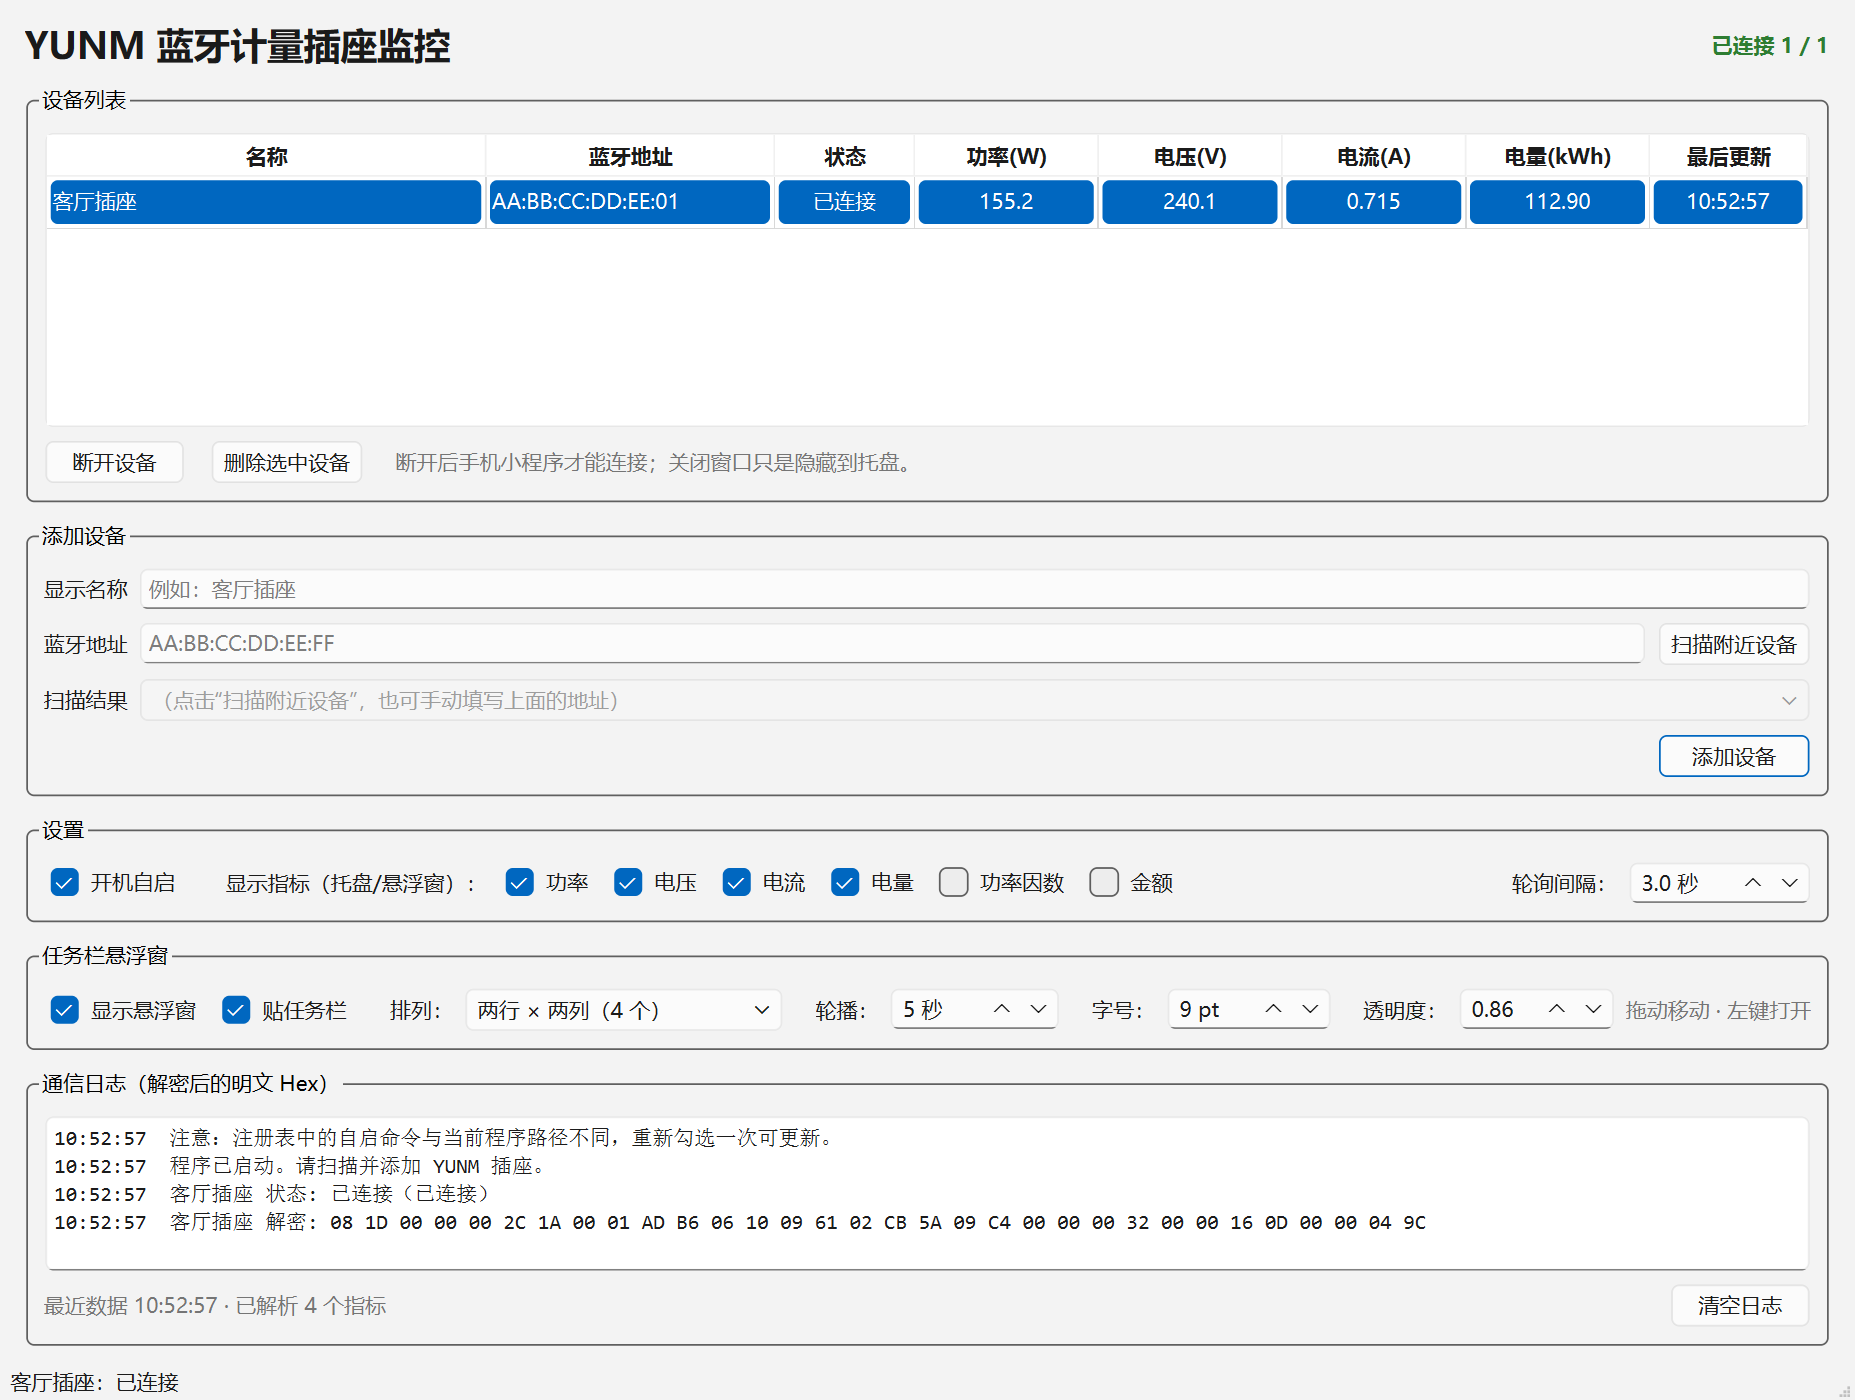
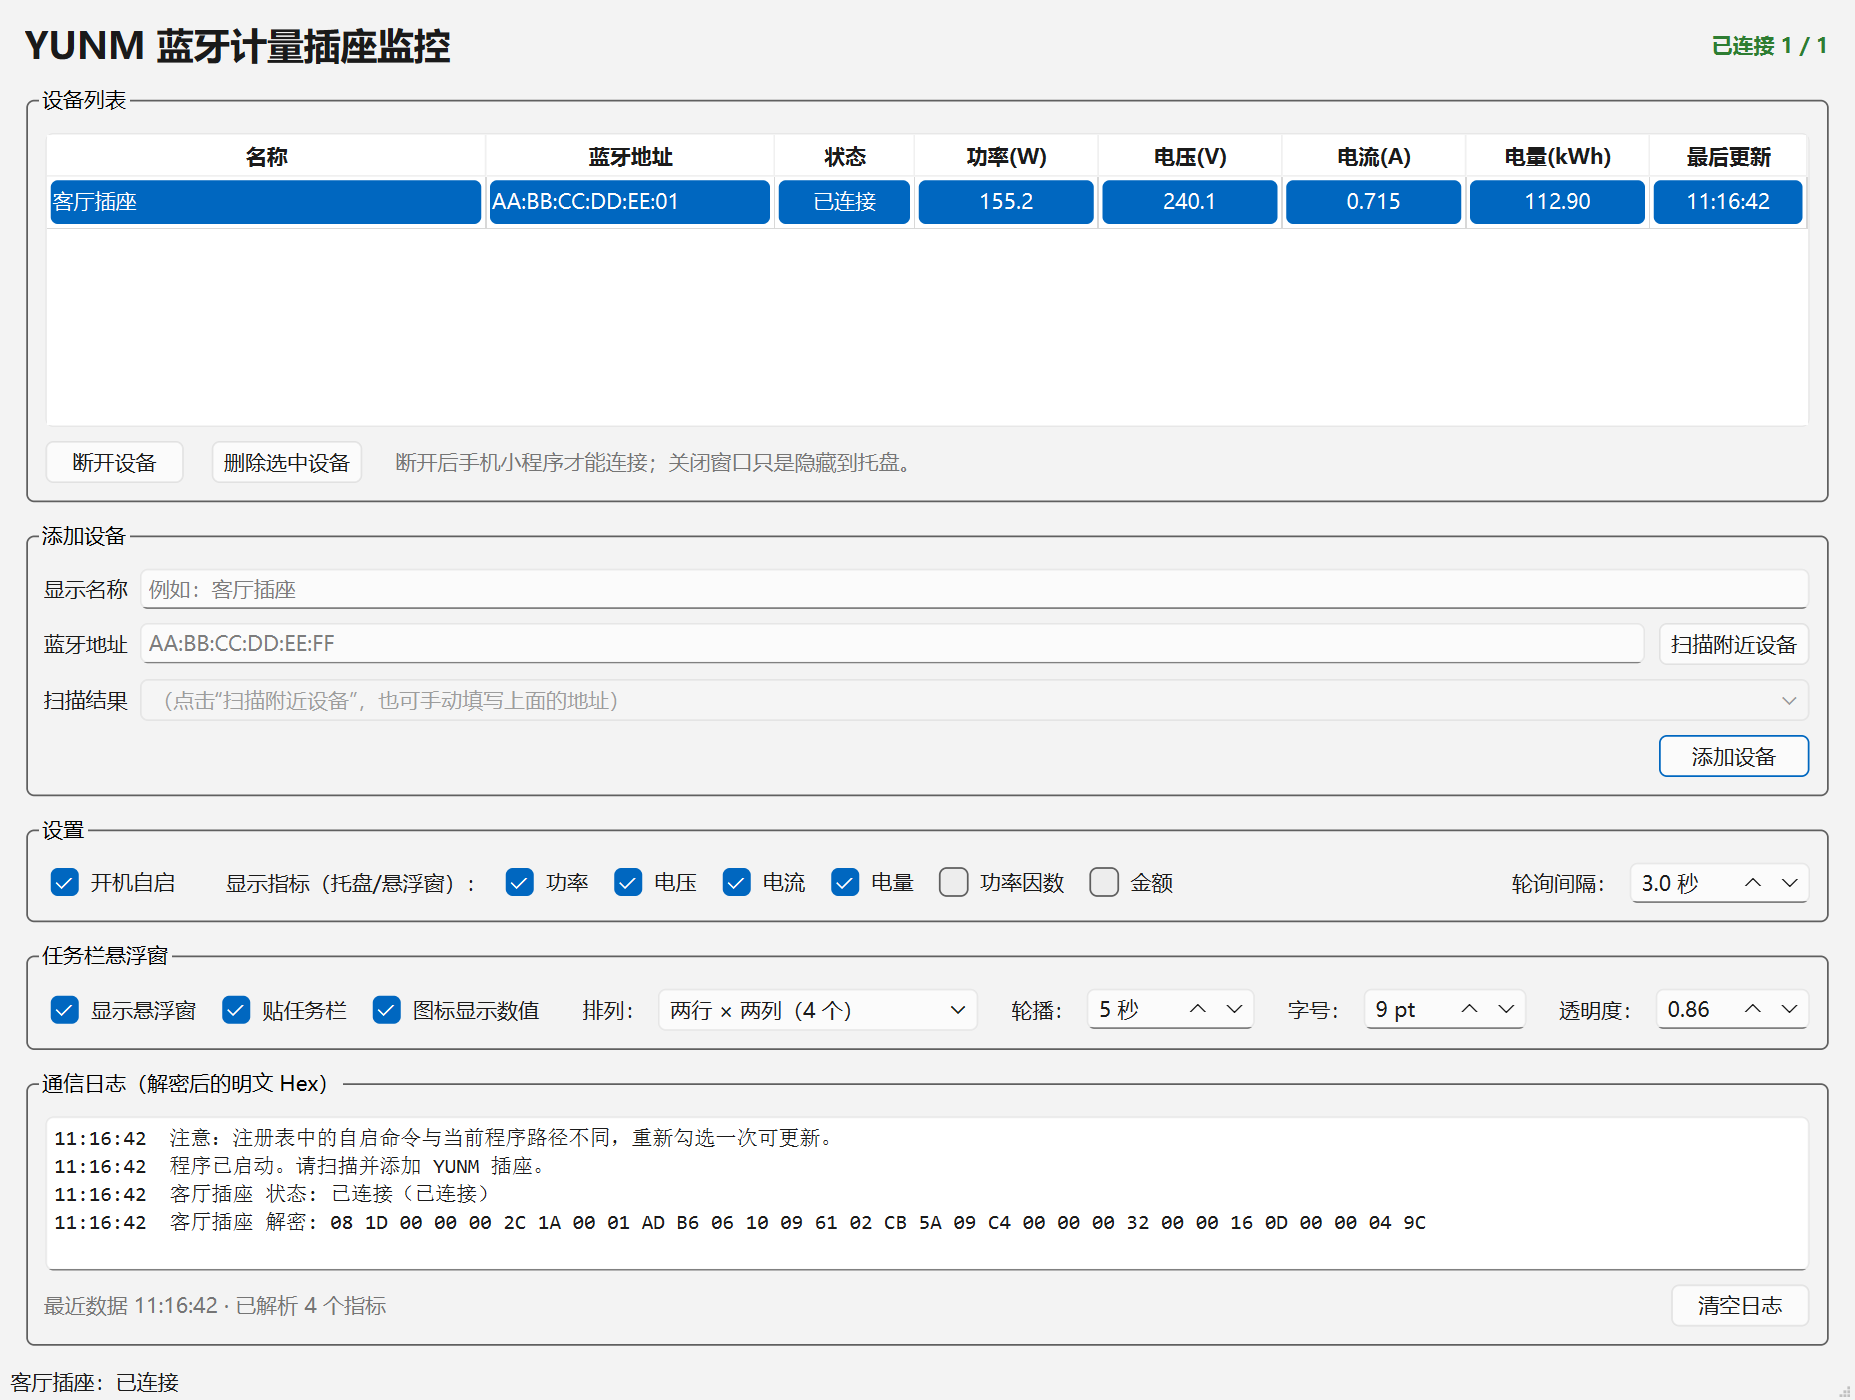
feat: 托盘和任务栏图标显示实时数值

diff --git a/main.py b/main.py
@@ -23,15 +23,16 @@ from __future__ import annotations
 import argparse
 import getpass
 import hashlib
+import io
 import logging
 import os
 import sys
 import threading
 from typing import Any
 
-from PIL import Image, ImageDraw
-from PySide6.QtCore import QObject, Signal, Slot
-from PySide6.QtGui import QIcon
+from PIL import Image, ImageDraw, ImageFont
+from PySide6.QtCore import QObject, QTimer, Qt, Signal, Slot
+from PySide6.QtGui import QIcon, QImage, QPixmap
 from PySide6.QtNetwork import QLocalServer, QLocalSocket
 from PySide6.QtWidgets import QApplication, QMessageBox
 import pystray
@@ -108,6 +109,99 @@ def make_tray_image(color: tuple[int, int, int, int], size: int = 64) -> Image.I
         fill=(255, 255, 255, 255),
     )
     return image
+
+
+def _load_icon_font(size: int) -> ImageFont.FreeTypeFont | ImageFont.ImageFont:
+    """加载 Windows 粗体字体；失败时退回 Pillow 默认字体。"""
+    for path in (
+        r"C:\Windows\Fonts\arialbd.ttf",
+        r"C:\Windows\Fonts\msyhbd.ttc",
+        r"C:\Windows\Fonts\seguisb.ttf",
+    ):
+        try:
+            return ImageFont.truetype(path, size)
+        except OSError:
+            continue
+    return ImageFont.load_default()
+
+
+def make_value_image(
+    value_text: str,
+    unit: str,
+    color: tuple[int, int, int, int],
+    size: int = 64,
+) -> Image.Image:
+    """画一个带数值的托盘/任务栏图标。
+
+    Windows 托盘最终显示为 16~32px，因此图标只放一个主数值和单位；
+    多个指标由 TrayController 定时轮换。
+    """
+    image = Image.new("RGBA", (size, size), (0, 0, 0, 0))
+    draw = ImageDraw.Draw(image)
+    draw.rounded_rectangle(
+        (2, 2, size - 3, size - 3),
+        radius=max(8, size // 5),
+        fill=color,
+        outline=(255, 255, 255, 245),
+        width=max(2, size // 22),
+    )
+
+    length = len(value_text)
+    value_size = 34 if length <= 3 else 28 if length == 4 else 22
+    value_font = _load_icon_font(value_size)
+    unit_font = _load_icon_font(12)
+
+    value_box = draw.textbbox((0, 0), value_text, font=value_font)
+    value_width = value_box[2] - value_box[0]
+    value_height = value_box[3] - value_box[1]
+    value_y = (size - value_height) // 2 - (6 if unit else 0)
+    draw.text(
+        ((size - value_width) // 2, value_y),
+        value_text,
+        font=value_font,
+        fill=(255, 255, 255, 255),
+    )
+    if unit:
+        unit_box = draw.textbbox((0, 0), unit, font=unit_font)
+        unit_width = unit_box[2] - unit_box[0]
+        unit_height = unit_box[3] - unit_box[1]
+        draw.text(
+            ((size - unit_width) // 2, size - unit_height - 6),
+            unit,
+            font=unit_font,
+            fill=(255, 255, 255, 235),
+        )
+    return image
+
+
+def format_icon_value(key: str, value: float) -> tuple[str, str]:
+    """把指标压缩成适合小图标显示的短文本。"""
+    if key == "power":
+        return f"{value:.0f}", "W"
+    if key == "voltage":
+        return f"{value:.0f}", "V"
+    if key == "current":
+        return f"{value:.2f}", "A"
+    if key == "energy":
+        return f"{value:.1f}", "kWh"
+    if key == "power_factor":
+        return f"{value:.2f}", ""
+    if key == "cost":
+        return f"{value:.1f}", "¥"
+    meta = utils.METRIC_DEFS.get(key, {})
+    try:
+        return str(meta.get("fmt", "{:.1f}").format(float(value))), str(
+            meta.get("unit", "")
+        )
+    except (TypeError, ValueError):
+        return "--", ""
+
+
+def pil_to_qicon(image: Image.Image) -> QIcon:
+    buffer = io.BytesIO()
+    image.save(buffer, format="PNG")
+    qimage = QImage.fromData(buffer.getvalue())
+    return QIcon(QPixmap.fromImage(qimage))
 
 
 # ---------------------------------------------------------------------------
@@ -214,6 +308,8 @@ class TrayController(QObject):
     Qt 会自动排队到 GUI 主线程执行。所有 pystray 更新都在主线程完成。
     """
 
+    icon_changed = Signal(object)
+
     def __init__(self, window: MainWindow, config: dict[str, Any]) -> None:
         super().__init__()
         self.window = window
@@ -224,12 +320,16 @@ class TrayController(QObject):
         self._images = {
             key: make_tray_image(color) for key, color in TRAY_COLORS.items()
         }
-        self._last_icon_key = "idle"
+        self._last_icon_key: tuple[Any, ...] | None = None
         self._last_tooltip = utils.APP_DISPLAY_NAME
         self._hide_notified = False
         self._stopped = False
         self._start_failed = False
         self._ready = threading.Event()
+        self._icon_index = 0
+        self._icon_timer = QTimer(self)
+        self._icon_timer.setTimerType(Qt.TimerType.CoarseTimer)
+        self._icon_timer.timeout.connect(self._rotate_icon_metric)
 
         self.icon = pystray.Icon(
             "YUNM-Plug-Monitor",
@@ -237,6 +337,7 @@ class TrayController(QObject):
             title=self._last_tooltip,
             menu=self._build_menu(),
         )
+        self._sync_icon_timer()
 
     def _build_menu(self) -> pystray.Menu:
         return pystray.Menu(
@@ -349,7 +450,56 @@ class TrayController(QObject):
             # 手动断开后清除旧状态和旧读数，恢复时不要显示过期数据
             self.statuses.pop(address, None)
             self.latest.pop(address, None)
+        self._sync_icon_timer()
         self._refresh()
+
+    def _sync_icon_timer(self) -> None:
+        seconds = float(self.config.get("floating_rotate_seconds", 5.0))
+        if self.config.get("icon_show_value", True) and seconds > 0:
+            self._icon_timer.start(max(1000, int(seconds * 1000)))
+        else:
+            self._icon_timer.stop()
+            self._icon_index = 0
+
+    def _rotate_icon_metric(self) -> None:
+        metrics = [
+            key
+            for key in utils.METRIC_ORDER
+            if self.config.get("metrics", {}).get(key, False)
+        ]
+        if not metrics:
+            return
+        self._icon_index = (self._icon_index + 1) % len(metrics)
+        self._refresh()
+
+    def _current_icon_data(self) -> tuple[str, float] | None:
+        """取第一台已有数据的已连接设备，返回当前轮播指标。"""
+        if not self.config.get("icon_show_value", True):
+            return None
+        metrics = [
+            key
+            for key in utils.METRIC_ORDER
+            if self.config.get("metrics", {}).get(key, False)
+        ]
+        if not metrics:
+            return None
+        paused = set(self.config.get("paused_devices", []))
+        for device in self.config.get("devices", []):
+            address = device.get("address")
+            if not address or address in paused:
+                continue
+            if self._status_of(address) != "connected":
+                continue
+            data = self.latest.get(address, {})
+            if not data:
+                continue
+            start = self._icon_index % len(metrics)
+            for offset in range(len(metrics)):
+                key = metrics[(start + offset) % len(metrics)]
+                value = data.get(key)
+                if isinstance(value, (int, float)) and not isinstance(value, bool):
+                    return key, float(value)
+        return None
 
     @Slot()
     def on_hidden_to_tray(self) -> None:
@@ -462,12 +612,34 @@ class TrayController(QObject):
                 logger.warning("更新托盘 Tooltip 失败", exc_info=True)
 
         key = self._overall_key()
-        if key != self._last_icon_key:
-            self._last_icon_key = key
-            try:
-                self.icon.icon = self._images[key]
-            except Exception:  # noqa: BLE001
-                logger.warning("更新托盘图标失败", exc_info=True)
+        icon_value = self._current_icon_data()
+        if icon_value is not None:
+            metric_key, value = icon_value
+            value_text, unit = format_icon_value(metric_key, value)
+            color = TRAY_COLORS.get(key, TRAY_COLORS["idle"])
+            image = make_value_image(value_text, unit, color)
+            icon_key: tuple[Any, ...] = (
+                "value",
+                metric_key,
+                round(value, 3),
+                key,
+            )
+        else:
+            image = self._images.get(key, self._images["idle"])
+            icon_key = ("status", key)
+
+        if icon_key == self._last_icon_key:
+            return
+        self._last_icon_key = icon_key
+        try:
+            self.icon.icon = image
+        except Exception:  # noqa: BLE001
+            logger.warning("更新托盘图标失败", exc_info=True)
+            return
+        try:
+            self.icon_changed.emit(pil_to_qicon(image))
+        except Exception:  # noqa: BLE001
+            logger.debug("更新任务栏窗口图标失败", exc_info=True)
 
 
 # ---------------------------------------------------------------------------
@@ -650,6 +822,7 @@ class YUNMApplication:
         self.bridge.scan_failed.connect(self.window.on_scan_failed)
 
         # 悬浮窗 -> 主窗口 / 托盘
+        self.tray.icon_changed.connect(self.window.setWindowIcon)
         self.floating.show_main_requested.connect(self.window.show_window)
         self.floating.hide_requested.connect(self._hide_floating)
         self.floating.quit_requested.connect(self.qt_app.quit)

diff --git a/gui.py b/gui.py
@@ -280,10 +280,17 @@ class MainWindow(QMainWindow):
             "这是稳定的置顶窗口，不注入 Explorer。"
         )
         floating_layout.addWidget(self.floating_taskbar_cb)
+        self.icon_value_cb = QCheckBox("图标显示数值")
+        self.icon_value_cb.setToolTip(
+            "托盘/任务栏按钮图标显示当前指标数值，按轮播秒数切换指标；\n"
+            "关闭后恢复为彩色状态圆点。"
+        )
+        floating_layout.addWidget(self.icon_value_cb)
         floating_layout.addSpacing(14)
 
         floating_layout.addWidget(QLabel("排列："))
         self.floating_layout_combo = QComboBox()
+        self.floating_layout_combo.setMinimumWidth(175)
         self.floating_layout_combo.addItem("两行 × 两列（4 个）", (2, 2))
         self.floating_layout_combo.addItem("一行 × 两列（2 个，轮播）", (1, 2))
         self.floating_layout_combo.addItem("两行 × 一列（2 个，轮播）", (2, 1))
@@ -315,10 +322,6 @@ class MainWindow(QMainWindow):
         floating_layout.addWidget(self.floating_opacity_spin)
 
         floating_layout.addStretch(1)
-        floating_hint = QLabel("拖动移动 · 左键打开")
-        floating_hint.setToolTip("右键悬浮窗可隐藏或退出程序")
-        floating_hint.setStyleSheet("color: #757575;")
-        floating_layout.addWidget(floating_hint)
         root.addWidget(floating_group)
 
         # 日志
@@ -394,6 +397,10 @@ class MainWindow(QMainWindow):
             self.floating_taskbar_cb.setChecked(
                 bool(self.config.get("floating_in_taskbar", True))
             )
+        with QSignalBlocker(self.icon_value_cb):
+            self.icon_value_cb.setChecked(
+                bool(self.config.get("icon_show_value", True))
+            )
         with QSignalBlocker(self.floating_layout_combo):
             target = (
                 int(self.config.get("floating_rows", 2)),
@@ -433,6 +440,7 @@ class MainWindow(QMainWindow):
         self.floating_taskbar_cb.toggled.connect(
             self._on_floating_taskbar_toggled
         )
+        self.icon_value_cb.toggled.connect(self._on_icon_value_toggled)
         self.floating_layout_combo.currentIndexChanged.connect(
             self._on_floating_layout_changed
         )
@@ -894,6 +902,10 @@ class MainWindow(QMainWindow):
 
     def _on_floating_taskbar_toggled(self, checked: bool) -> None:
         self.config["floating_in_taskbar"] = bool(checked)
+        self._persist()
+
+    def _on_icon_value_toggled(self, checked: bool) -> None:
+        self.config["icon_show_value"] = bool(checked)
         self._persist()
 
     def _on_floating_layout_changed(self, _index: int) -> None:

diff --git a/utils.py b/utils.py
@@ -69,6 +69,7 @@ DEFAULT_CONFIG: dict[str, Any] = {
     # 贴任务栏悬浮窗（类似 TrafficMonitor）
     "floating_enabled": True,
     "floating_in_taskbar": True,
+    "icon_show_value": True,
     "floating_rows": 2,
     "floating_columns": 2,
     "floating_rotate_seconds": 5.0,
@@ -252,6 +253,9 @@ def normalize_config(raw: Any) -> dict[str, Any]:
     )
     config["floating_in_taskbar"] = bool(
         raw.get("floating_in_taskbar", config["floating_in_taskbar"])
+    )
+    config["icon_show_value"] = bool(
+        raw.get("icon_show_value", config["icon_show_value"])
     )
     config["floating_rows"] = int(
         _clamp_float(raw.get("floating_rows"), 1, 4, config["floating_rows"])

diff --git a/README.md b/README.md
@@ -12,6 +12,8 @@
 
 ![悬浮窗预览](docs/floating.png)
 
+![动态数值图标](docs/icon_value.png)
+
 悬浮窗默认覆盖在右下角**任务栏内部**，并避开时钟/系统托盘；也可以取消“贴任务栏”让它回到任务栏上方。显示：
 
 ```text
@@ -24,6 +26,10 @@
 > Windows 11 已不支持传统 deskband，真正的 Explorer 子窗口没有稳定 API。
 > 这里的“贴任务栏”是置顶无边框覆盖层，外观和 TrafficMonitor 类似，
 > 不注入 Explorer，因此不会因系统更新破坏任务栏。
+
+托盘图标和任务栏按钮图标会显示当前指标数值，例如 `155W`、`240V`。
+Windows 托盘通常只有 16～32px，所以一次只显示一个值，按“轮播”秒数切换；
+鼠标悬停仍能看到完整 Tooltip。设置里取消“图标显示数值”即可恢复彩色状态点。
 
 > **免责声明**
 >
@@ -38,6 +44,7 @@
 - **直接 BLE 读取**：扫描、连接、订阅 TX、轮询 RX，不依赖微信小程序或厂商云端
 - **实时指标**：功率、电压、电流、累计电量、功率因数、累计金额
 - **任务栏悬浮窗**：类似 TrafficMonitor，贴在任务栏上方常显；支持一行/两行/四行、每行一列/两列、定时轮播、拖动、字号和透明度
+- **动态图标**：托盘和任务栏按钮图标可直接显示当前数值（如 `155W`），按轮播秒数切换指标；关闭后恢复彩色状态点
 - **多设备**：每台插座独立连接、断线重连、独立显示
 - **系统托盘**：动态 Tooltip，例如 `客厅插座: 156W 240.1V | 书房插座: 断线`
 - **状态颜色**：黄=连接中，绿=正常，红=断线
@@ -166,6 +173,7 @@ EC ED | 长度(2) | 数据(32) | CRC(2)
   "auto_start": false,
   "floating_enabled": true,
   "floating_in_taskbar": true,
+  "icon_show_value": true,
   "floating_rows": 2,
   "floating_columns": 2,
   "floating_rotate_seconds": 5.0,
